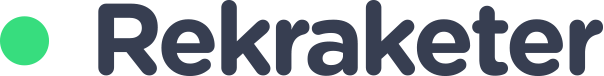
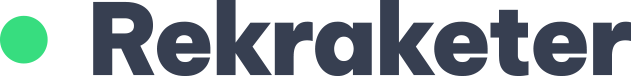
Version 1.5
Updates

Changed region(s): [[0.149, 0.0, 1.0, 1.0], [0.0, 0.2632, 0.0894, 0.8684], [0.0, 0.2105, 0.0596, 0.3421]]

diff --git a/css/main.css b/css/main.css
@@ -204,14 +204,15 @@ th {
   padding: 0; }
 
 /* Typography imported –––––––––––––––––––––––––––––––––––––––––––––––––– */
-@font-face {
-  font-family: GothamMedium;
-  src: url("fonts/gothamrnd-medium.woff") format("woff"); }
-
-h1, h2, h3, h4 {
+h1, h3, h4 {
   margin: 0;
-  font-family: "GothamMedium", "Helvetica", "Arial", sans-serif;
-  font-weight: 400; }
+  font-family: "Inter", "Helvetica", "Arial", sans-serif;
+  font-weight: 500; }
+
+h2, h4, .history-number {
+  margin: 0;
+  font-family: "Be Vietnam Pro", "Helvetica", "Arial", sans-serif;
+  font-weight: 700; }
 
 h1 {
   font-size: 5.5rem;
@@ -219,22 +220,21 @@ h1 {
   letter-spacing: -.1rem; }
 
 h2 {
-  font-size: 2rem;
+  font-size: 2.2rem;
   line-height: 1.2;
   letter-spacing: -.1rem; }
 
 h3 {
   font-size: 1.8rem;
   line-height: 1.2;
-  letter-spacing: -.1rem; }
+  letter-spacing: -.05rem; }
 
 h4 {
   font-size: 2.6rem;
   line-height: 1.2;
-  letter-spacing: -.15rem; }
+  letter-spacing: -.1rem; }
 
 p {
-  letter-spacing: -0.1rem;
   margin: 0; }
 
 a {
@@ -244,7 +244,7 @@ a {
   -moz-transition: all 0.5s ease;
   -o-transition: all 0.5s ease;
   text-decoration: none;
-  border-bottom: 1px solid #9FACBD; }
+  border-bottom: 1px solid #8693a3; }
 
 a:hover {
   color: #E2508D;
@@ -265,13 +265,13 @@ a.no:hover {
   color: #373F51; }
 
 .text2 {
-  color: #9FACBD; }
+  color: #8693a3; }
 
 .text3 {
   color: #fafafa; }
 
 .text4 {
-  color: #c9d1d6; }
+  color: #a7b4bd; }
 
 .primary {
   color: #37dd7f; }
@@ -355,8 +355,8 @@ html {
 
 body {
   font-size: 1.8em;
-  line-height: 1.3;
-  font-family: "GothamMedium", "Helvetica", "Arial", sans-serif;
+  line-height: 1.4;
+  font-family: "Inter", "Helvetica", "Arial", sans-serif;
   font-weight: 400;
   color: #373F51;
   text-rendering: optimizeLegibility;
@@ -451,11 +451,12 @@ body {
   margin: 2px;
   border-width: 0;
   border-color: transparent;
-  font-family: "GothamMedium", "Helvetica", "Arial", sans-serif;
+  font-family: "Inter", "Helvetica", "Arial", sans-serif;
   cursor: pointer;
   position: relative;
   font-size: 1.8rem;
-  letter-spacing: -0.1rem;
+  letter-spacing: -0.05rem;
+  font-weight: 500;    
   border-radius: 100px;
   padding: 10px 20px;
   overflow: hidden;
@@ -502,7 +503,7 @@ body {
   box-shadow: 0px 0px 20px rgba(0, 0, 0, 0.1); }
 
 #nav-logo, #error-nav-logo {
-  width: 151px;
+  width: 158px;
   height: 19px;
   background-size: contain;
   background-repeat: no-repeat; }
@@ -645,7 +646,7 @@ hr {
 .sidebar-edit-text {
   color: #fafafa;
   font-size: 1.6rem;
-  font-family: "GothamMedium", "Helvetica", "Arial", sans-serif;
+  font-family: "Inter", "Helvetica", "Arial", sans-serif;
   margin: 0; }
 
 .bg-block-full, .bg-block-1, .bg-block-2, .bg-block-3 {
@@ -679,8 +680,8 @@ hr {
   width: 100%;
   margin: 1rem;
   padding: 2rem;
-  font-size: 1.5rem;
-  letter-spacing: -0.05rem;
+  font-size: 1.7rem;
+  letter-spacing: 0;
   border-radius: 20px; }
 
 .bet-container {
@@ -735,10 +736,10 @@ hr {
   margin-top: -0.5rem;
   float: right; }
 
-.year-stats {
+.year-stats-box {
   cursor: pointer; }
 
-.year-stats:hover {
+.year-stats-box:hover {
   opacity: 0.8; }
 
 .year-stats-info, .stats-minus {
@@ -755,6 +756,15 @@ hr {
 
 #footer img {
   width: 200px; }
+
+#version {
+  border-radius: 8px;
+  border: 1px solid rgba(154, 154, 154, 0.2);
+  font-size: 1.5rem;
+  letter-spacing: 0;
+  display: inline-block;
+  padding: 0.5rem 1rem;
+  color: #fafafa; }
 
 #error {
   height: 100vh;

diff --git a/js/index.js b/js/index.js
@@ -57,24 +57,25 @@ window.addEventListener('scroll', function() {
 
   feather.replace()
 
-$(".year-stats").click(function() {
+$(".year-stats-box").click(function() {
   var yearStatsInfo = $(this).closest(".history-container").find(".year-stats-info");
-  var yearStatsPlus = $(this).closest(".history-container").find(".stats-plus");
-  var yearStatsMinus = $(this).closest(".history-container").find(".stats-minus");
+  var yearStatsPlus = $(this).find(".stats-plus");
+  var yearStatsMinus = $(this).find(".stats-minus");
+  var textSpan = $(this).find(".year-stats"); // Hitta textdelen som ändras
 
   if (yearStatsInfo.is(":visible")) {
     yearStatsInfo.slideUp(100);
-    $(this).text("Visa ");
-    yearStatsMinus.toggle();  
-    yearStatsPlus.toggle(); 
+    textSpan.text("Visa "); // Ändra bara texten
+    yearStatsMinus.hide();
+    yearStatsPlus.show();
   } else {
     yearStatsInfo.slideDown(250);
-    $(this).text("Dölj ");
-    yearStatsMinus.toggle();  
-    yearStatsPlus.toggle(); 
+    textSpan.text("Dölj "); // Ändra bara texten
+    yearStatsMinus.show();
+    yearStatsPlus.hide();
   }
-
 });
+
 
 
 

diff --git a/templates/template_years.php b/templates/template_years.php
@@ -5,10 +5,10 @@
 <div class="history-container bg3">
   <h3 class="text2 marg-small"><span class="primary">•</span> Statistik för <?php echo date('Y'); ?><span class="history-current bg1 text2"><i class="primary marg-right" data-feather="activity"></i> Pågår!</span></h3>
   <hr>
-  <div class="history-roi"><h3 class="text2">ROI<span class="history-separator secondary">•</span><span class="text1"><?php echo do_shortcode('[get_sheet_value location="Nuvarande!D4"]'); ?></span></h3></div>
-  <div class="history-wallet"><h3 class="text2">Kassa<span class="history-separator fourth">•</span><span class="text1"><?php echo do_shortcode('[get_sheet_value location="Nuvarande!E4"]'); ?></span></h3></div>
-  <div class="history-games"><h3 class="text2">Spel<span class="history-separator third">•</span><span class="text1"><?php echo do_shortcode('[get_sheet_value location="Nuvarande!F4"]'); ?> st</span></h3></div>
-  <div class="history-wins"><h3 class="text2">Vinster<span class="history-separator primary">•</span><span class="text1"><?php echo do_shortcode('[get_sheet_value location="Nuvarande!G4"]'); ?></span></h3></div>
+  <div class="history-roi"><h3 class="text2">ROI<span class="history-separator secondary">•</span><span class="history-number text1"><?php echo do_shortcode('[get_sheet_value location="Nuvarande!D4"]'); ?></span></h3></div>
+  <div class="history-wallet"><h3 class="text2">Kassa<span class="history-separator fourth">•</span><span class="history-number text1"><?php echo do_shortcode('[get_sheet_value location="Nuvarande!E4"]'); ?></span></h3></div>
+  <div class="history-games"><h3 class="text2">Spel<span class="history-separator third">•</span><span class="history-number text1"><?php echo do_shortcode('[get_sheet_value location="Nuvarande!F4"]'); ?> st</span></h3></div>
+  <div class="history-wins"><h3 class="text2">Vinster<span class="history-separator primary">•</span><span class="history-number text1"><?php echo do_shortcode('[get_sheet_value location="Nuvarande!G4"]'); ?></span></h3></div>
 </div>
 
 
@@ -16,13 +16,13 @@
 <?php while( have_rows('content_year_info') ): the_row(); ?>
 
 <div class="history-container bg3">
-  <h3 class="text2"><span class="primary">•</span> Statistik för <?php the_sub_field('content_year_info_YEAR'); ?><div class="float-right"><span class="year-stats text4">Visa</span> <span class="stats-plus text4"><i data-feather="plus-circle"></i></span><span class="stats-minus text4"><i data-feather="minus-circle"></i></span></div></h3>
+  <h3 class="text2"><span class="primary">•</span> Statistik för <?php the_sub_field('content_year_info_YEAR'); ?><div class="float-right"><div class="year-stats-box"><span class="year-stats text4">Visa</span> <span class="stats-plus text4"><i data-feather="plus-circle"></i></span><span class="stats-minus text4"><i data-feather="minus-circle"></i></span></div></div></h3>
   <div class="year-stats-info">
     <hr class="marg-up-small">
-    <div class="history-roi"><h3 class="text2">ROI<span class="history-separator secondary">•</span><span class="text1"><?php the_sub_field('content_year_info_ROI'); ?>%</span></h3></div>
-    <div class="history-wallet"><h3 class="text2">Kassa<span class="history-separator fourth">•</span><span class="text1"><?php the_sub_field('content_year_info_WALLET'); ?>u</span></h3></div>
-    <div class="history-games"><h3 class="text2">Spel<span class="history-separator third">•</span><span class="text1"><?php the_sub_field('content_year_info_BETS'); ?> st</span></h3></div>
-    <div class="history-wins"><h3 class="text2">Vinster<span class="history-separator primary">•</span><span class="text1"><?php the_sub_field('content_year_info_WINS'); ?>%</span></h3></div>
+    <div class="history-roi"><h3 class="text2">ROI<span class="history-separator secondary">•</span><span class="history-number text1"><?php the_sub_field('content_year_info_ROI'); ?>%</span></h3></div>
+    <div class="history-wallet"><h3 class="text2">Kassa<span class="history-separator fourth">•</span><span class="history-number text1"><?php the_sub_field('content_year_info_WALLET'); ?>u</span></h3></div>
+    <div class="history-games"><h3 class="text2">Spel<span class="history-separator third">•</span><span class="history-number text1"><?php the_sub_field('content_year_info_BETS'); ?> st</span></h3></div>
+    <div class="history-wins"><h3 class="text2">Vinster<span class="history-separator primary">•</span><span class="history-number text1"><?php the_sub_field('content_year_info_WINS'); ?>%</span></h3></div>
   </div>
 </div>
 

diff --git a/footer.php b/footer.php
@@ -17,6 +17,7 @@
 <?php endif; ?>
 
 </div>
+<div id="version" class="marg-small"><svg xmlns="http://www.w3.org/2000/svg" width="24" height="24" viewBox="0 0 24 24" fill="none" stroke="currentColor" stroke-width="2" stroke-linecap="round" stroke-linejoin="round" class="feather feather-zap marg-right primary"><polygon points="13 2 3 14 12 14 11 22 21 10 12 10 13 2"></polygon></svg> Version 1.5</div>
 <p class="text2 marg-no">Skapades av <a href="https://www.hunkverkstan.com" target="_blank">Hunkverkstan</a></p>    
 <p class="text2">Alla rättigheter reserverade • <?php
 $year = date('Y');
